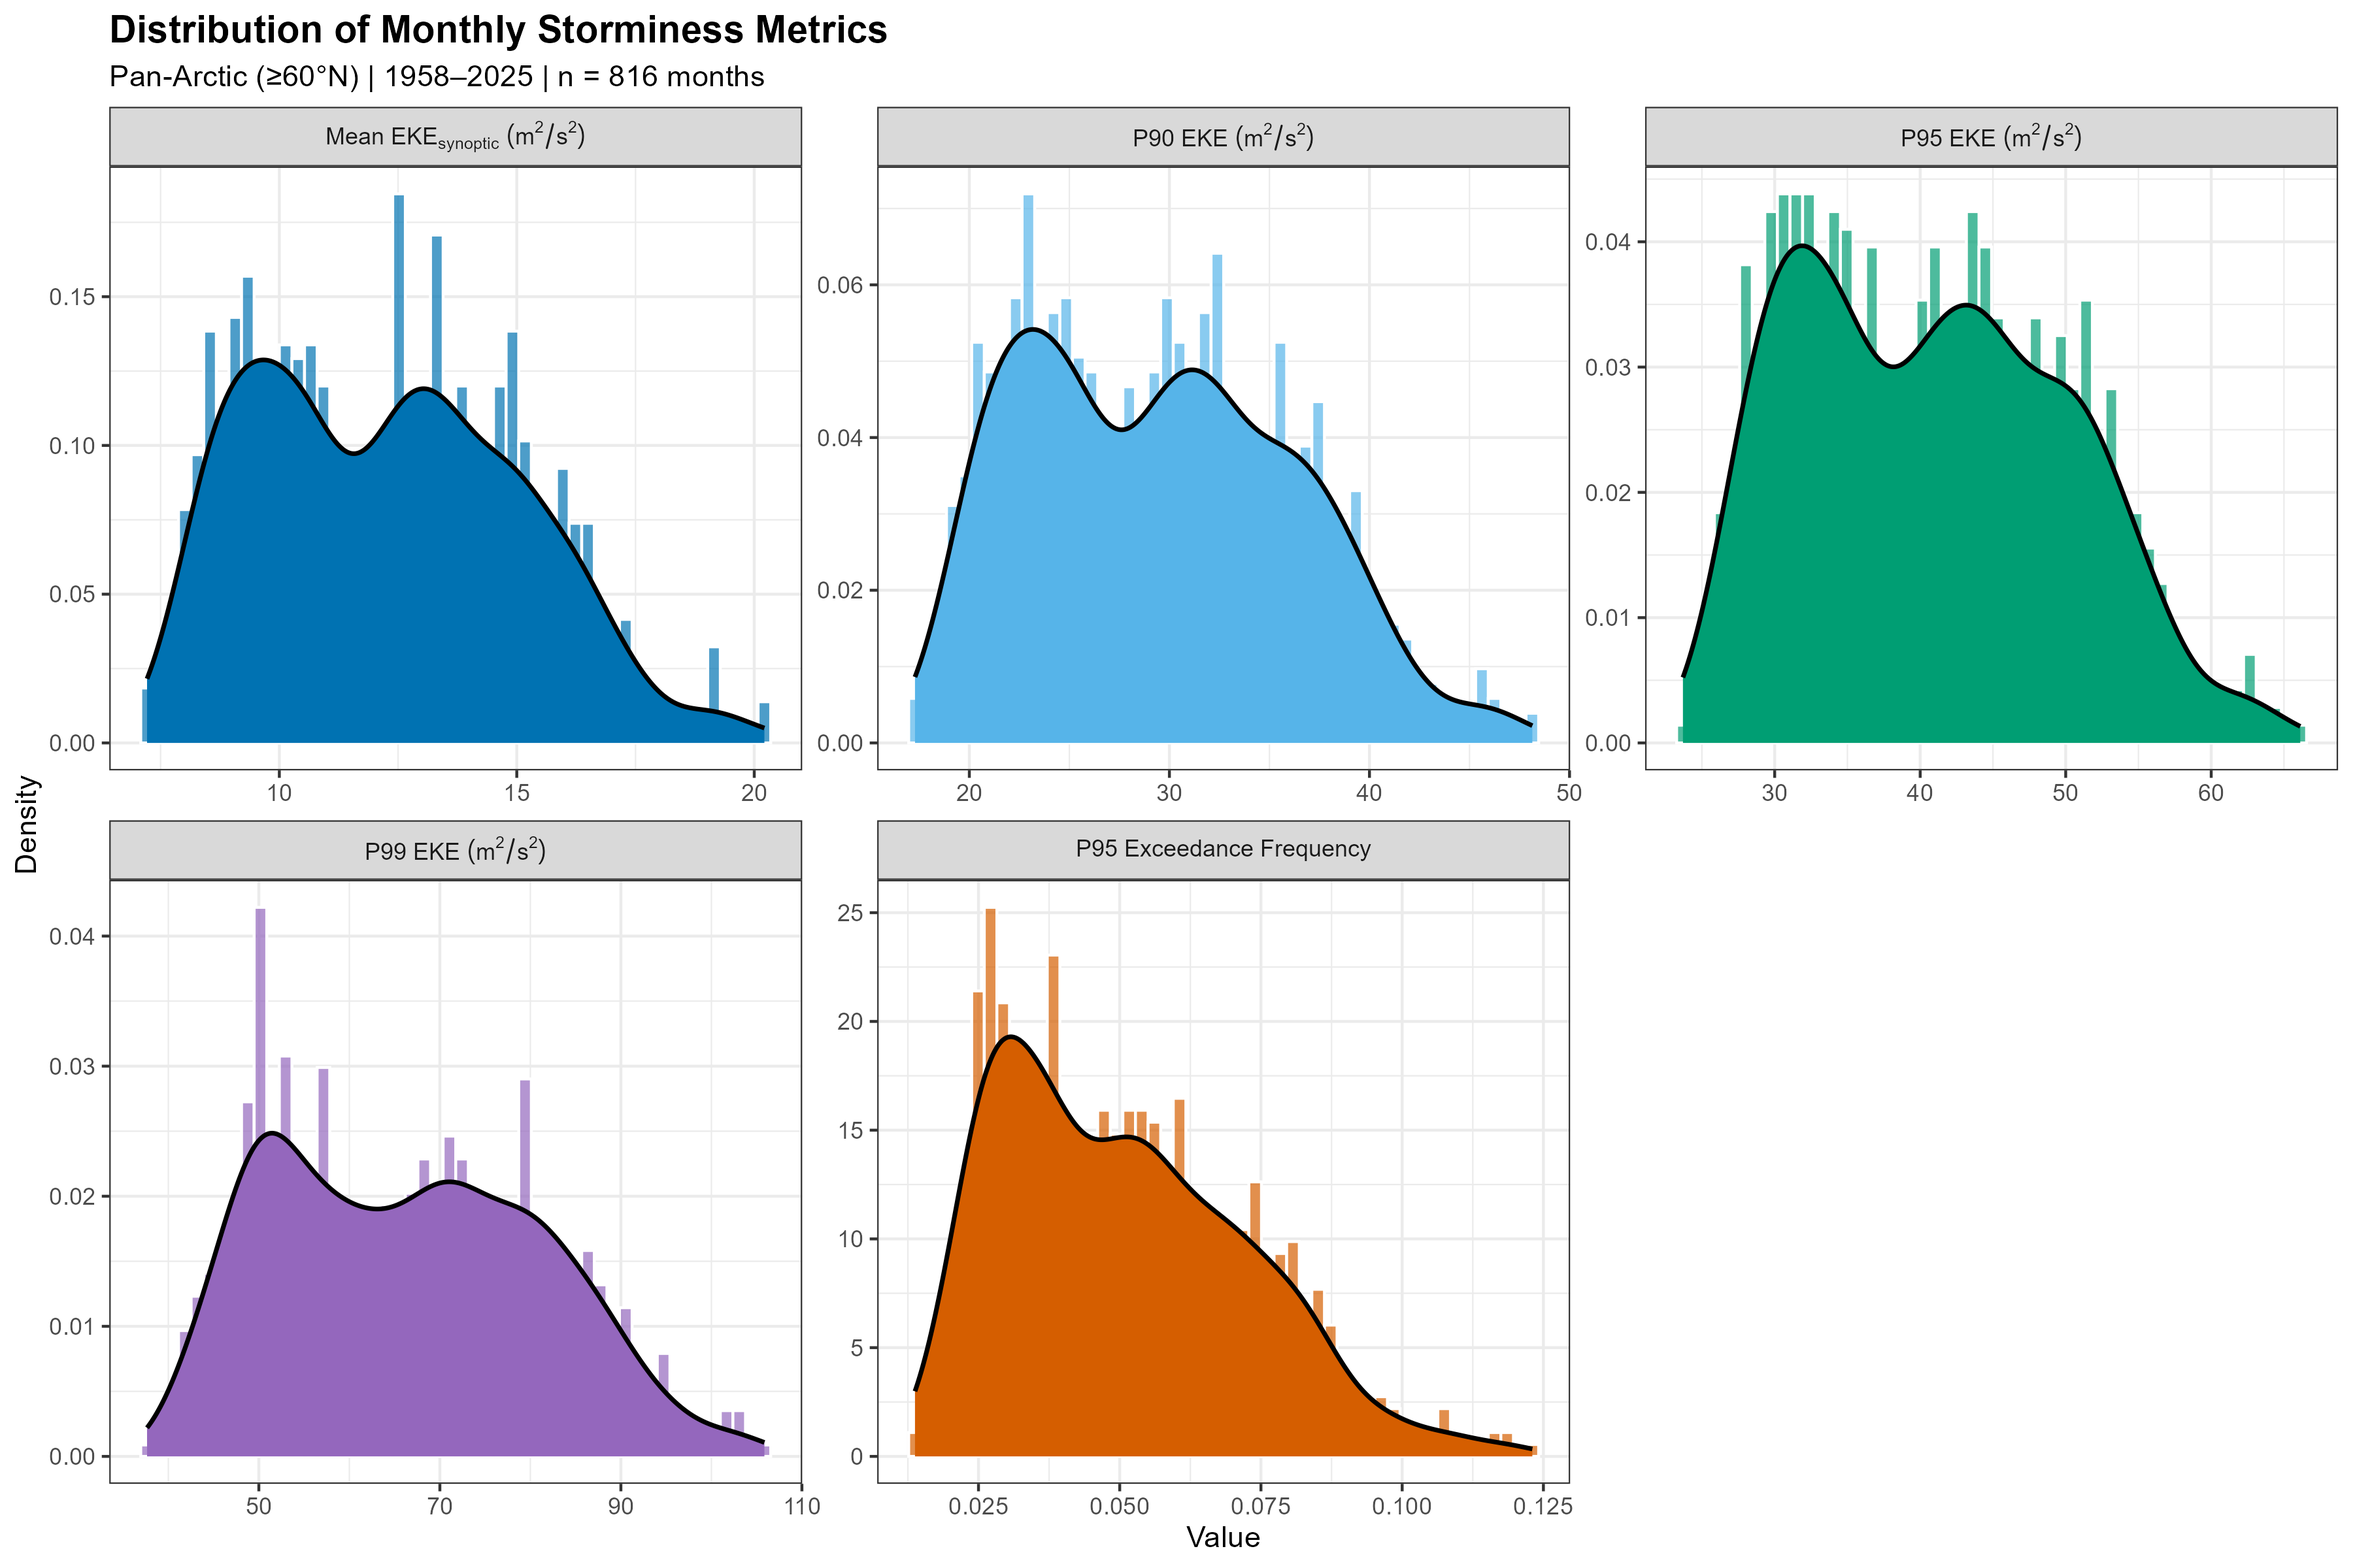
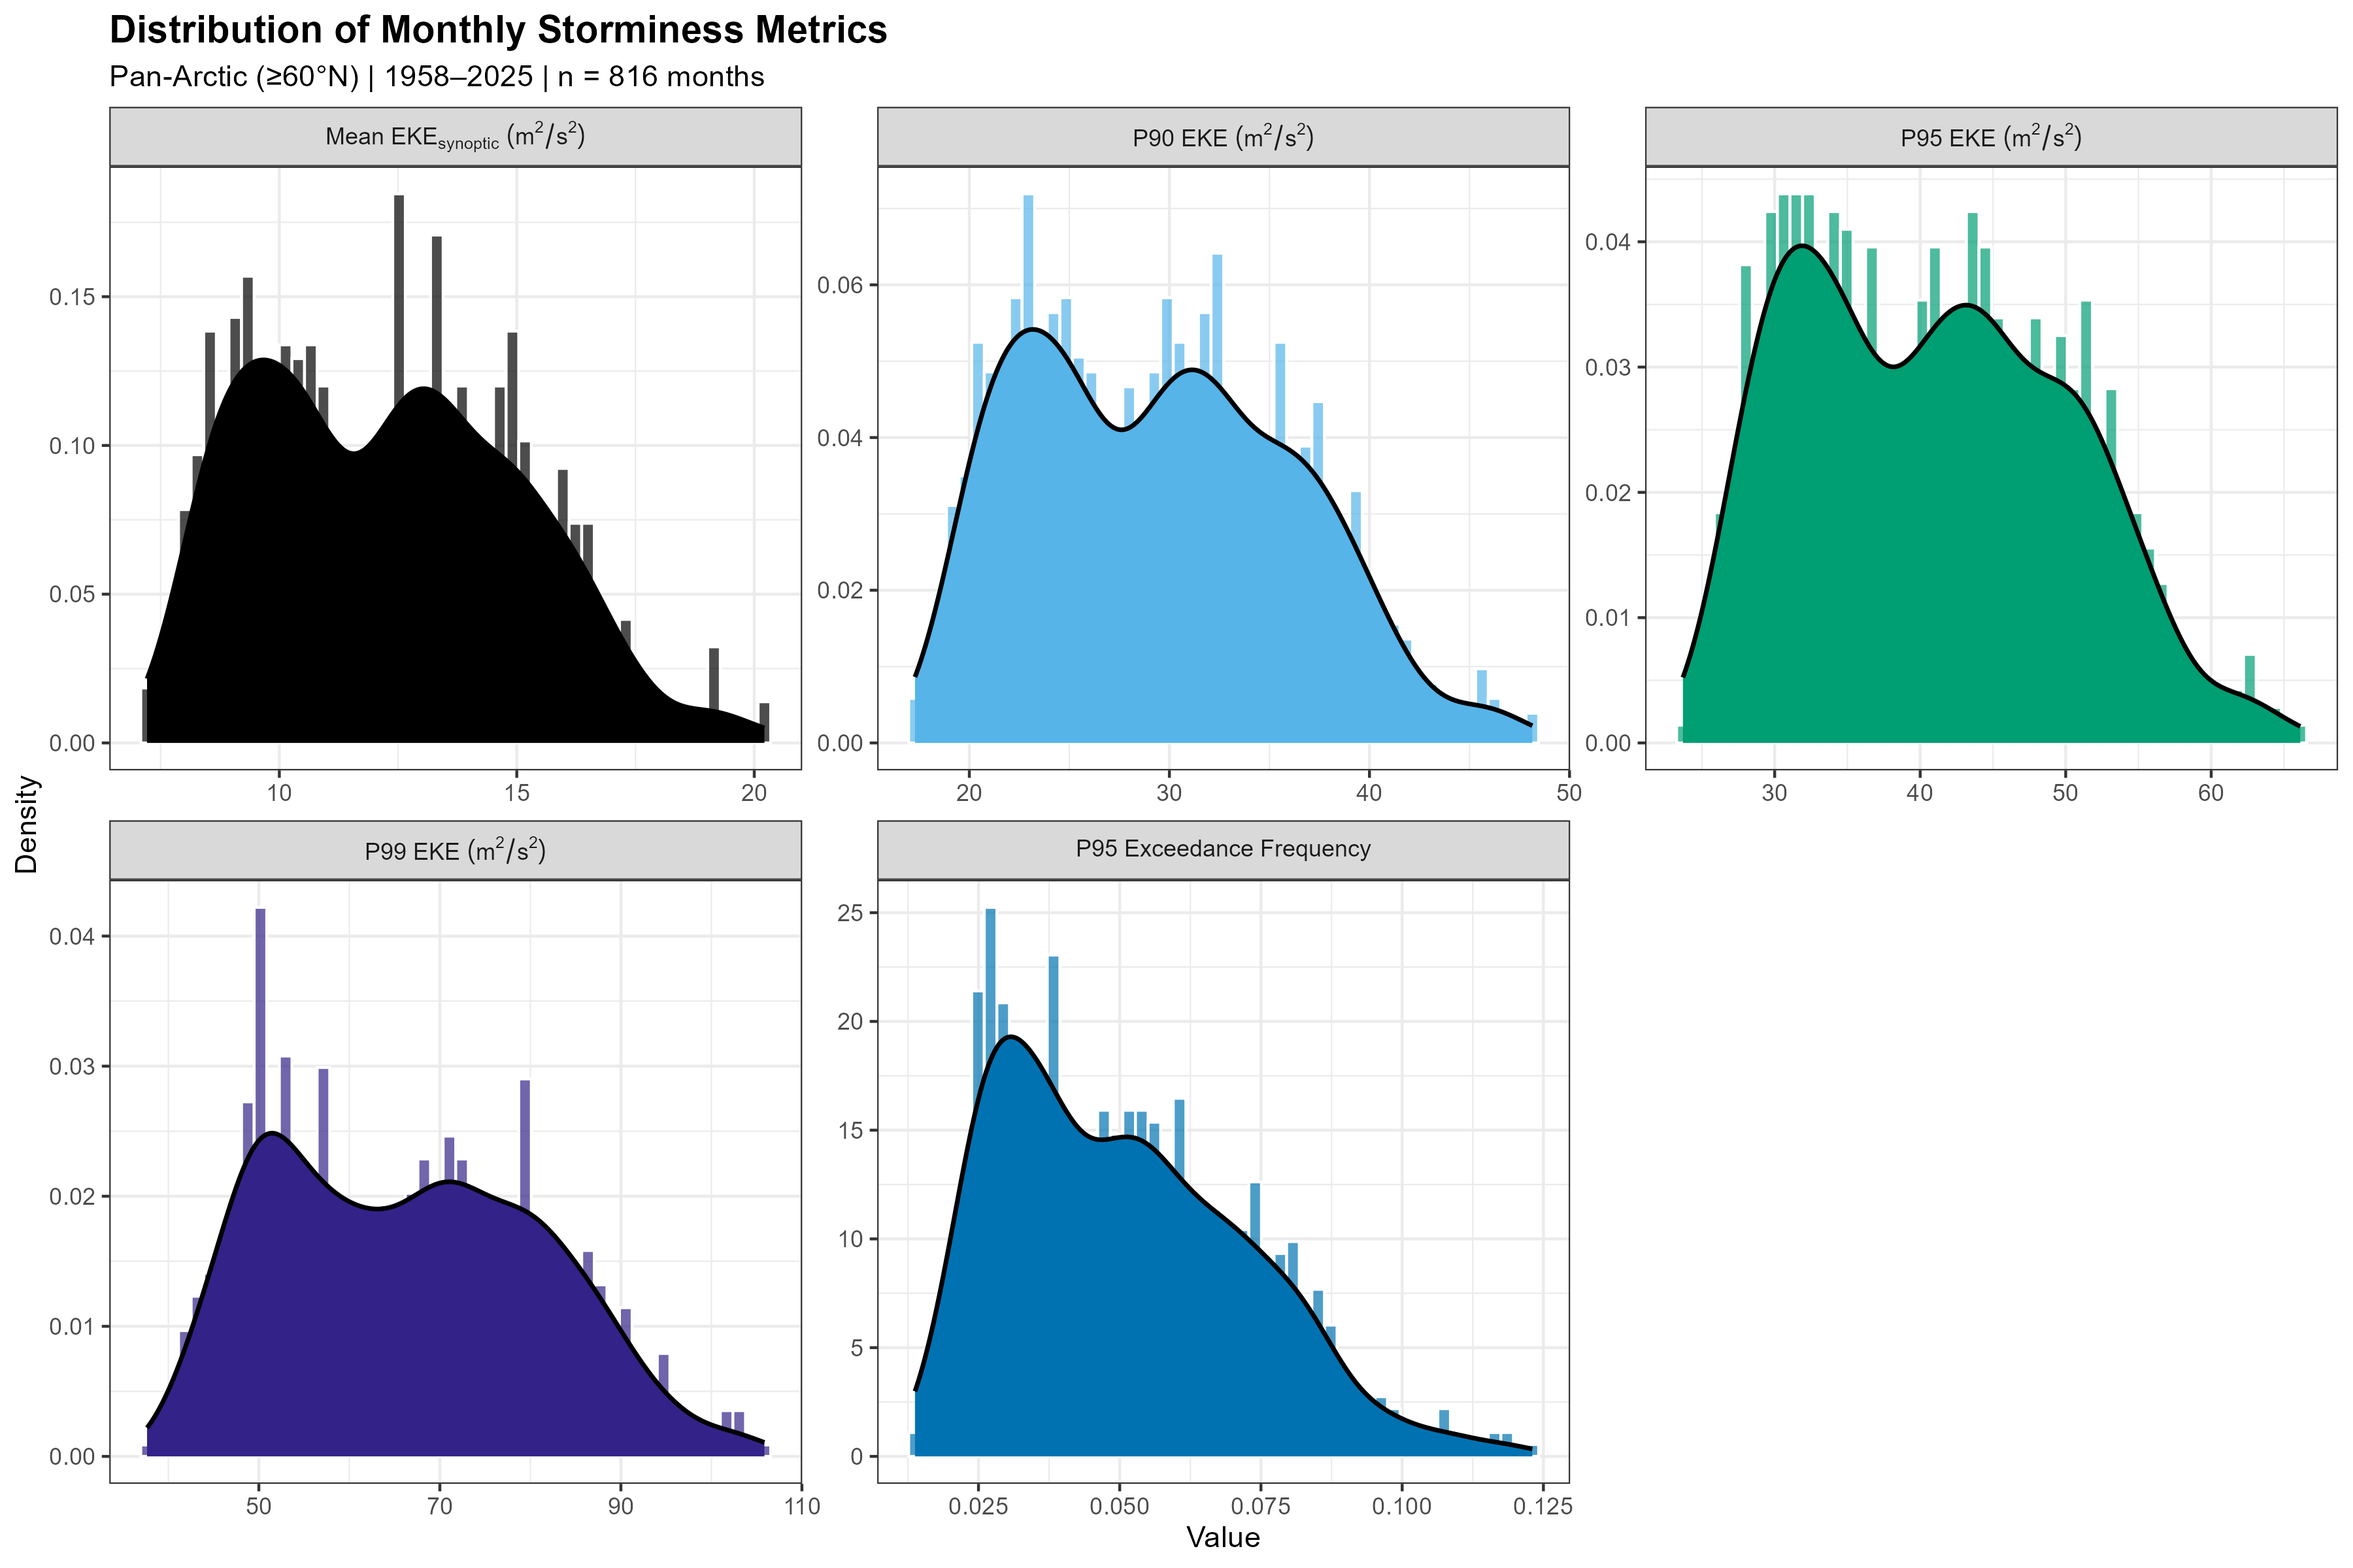
colors modification

Changed region(s): [[0.0622, 0.125, 0.3422, 0.5], [0.3733, 0.5938, 0.6533, 0.9375], [0.0622, 0.5938, 0.3422, 0.9375]]

diff --git a/Storminess_analysis_full_framework.html b/Storminess_analysis_full_framework.html
@@ -357,26 +357,26 @@ window.Quarto = {
 <span id="cb1-192"><a href="#cb1-192" aria-hidden="true" tabindex="-1"></a><span class="co"># Storminess metrics: blue family. Energy components: warm family.</span></span>
 <span id="cb1-193"><a href="#cb1-193" aria-hidden="true" tabindex="-1"></a></span>
 <span id="cb1-194"><a href="#cb1-194" aria-hidden="true" tabindex="-1"></a>METRIC_COLORS <span class="ot">&lt;-</span> <span class="fu">c</span>(</span>
-<span id="cb1-195"><a href="#cb1-195" aria-hidden="true" tabindex="-1"></a>  <span class="st">"eke_synoptic_mean"</span> <span class="ot">=</span> <span class="st">"#0072B2"</span>,  <span class="co"># Blue</span></span>
+<span id="cb1-195"><a href="#cb1-195" aria-hidden="true" tabindex="-1"></a>  <span class="st">"eke_synoptic_mean"</span> <span class="ot">=</span> <span class="st">"#000000"</span>,  <span class="co"># Black</span></span>
 <span id="cb1-196"><a href="#cb1-196" aria-hidden="true" tabindex="-1"></a>  <span class="st">"eke_p90"</span>           <span class="ot">=</span> <span class="st">"#56B4E9"</span>,  <span class="co"># Sky blue</span></span>
 <span id="cb1-197"><a href="#cb1-197" aria-hidden="true" tabindex="-1"></a>  <span class="st">"eke_p95"</span>           <span class="ot">=</span> <span class="st">"#009E73"</span>,  <span class="co"># Teal green</span></span>
-<span id="cb1-198"><a href="#cb1-198" aria-hidden="true" tabindex="-1"></a>  <span class="st">"eke_p99"</span>           <span class="ot">=</span> <span class="st">"#9467BD"</span>,  <span class="co"># Purple</span></span>
-<span id="cb1-199"><a href="#cb1-199" aria-hidden="true" tabindex="-1"></a>  <span class="st">"exceed_p95_freq"</span>   <span class="ot">=</span> <span class="st">"#D55E00"</span>   <span class="co"># Vermillion</span></span>
+<span id="cb1-198"><a href="#cb1-198" aria-hidden="true" tabindex="-1"></a>  <span class="st">"eke_p99"</span>           <span class="ot">=</span> <span class="st">"#332288"</span>,  <span class="co"># Deep Indigo</span></span>
+<span id="cb1-199"><a href="#cb1-199" aria-hidden="true" tabindex="-1"></a>  <span class="st">"exceed_p95_freq"</span>   <span class="ot">=</span> <span class="st">"#0072B2"</span>   <span class="co"># Blue</span></span>
 <span id="cb1-200"><a href="#cb1-200" aria-hidden="true" tabindex="-1"></a>)</span>
 <span id="cb1-201"><a href="#cb1-201" aria-hidden="true" tabindex="-1"></a></span>
 <span id="cb1-202"><a href="#cb1-202" aria-hidden="true" tabindex="-1"></a>ENERGY_COLORS <span class="ot">&lt;-</span> <span class="fu">c</span>(</span>
-<span id="cb1-203"><a href="#cb1-203" aria-hidden="true" tabindex="-1"></a>  <span class="st">"tke"</span>        <span class="ot">=</span> <span class="st">"#1B9E77"</span>,   <span class="co"># Green</span></span>
-<span id="cb1-204"><a href="#cb1-204" aria-hidden="true" tabindex="-1"></a>  <span class="st">"mke"</span>        <span class="ot">=</span> <span class="st">"#D95F02"</span>,   <span class="co"># Orange</span></span>
-<span id="cb1-205"><a href="#cb1-205" aria-hidden="true" tabindex="-1"></a>  <span class="st">"eke_budget"</span> <span class="ot">=</span> <span class="st">"#7570B3"</span>    <span class="co"># Periwinkle</span></span>
+<span id="cb1-203"><a href="#cb1-203" aria-hidden="true" tabindex="-1"></a>  <span class="st">"tke"</span>        <span class="ot">=</span> <span class="st">"#E69F00"</span>,   <span class="co"># Golden Orange </span></span>
+<span id="cb1-204"><a href="#cb1-204" aria-hidden="true" tabindex="-1"></a>  <span class="st">"mke"</span>        <span class="ot">=</span> <span class="st">"#D55E00"</span>,   <span class="co"># Vermillion </span></span>
+<span id="cb1-205"><a href="#cb1-205" aria-hidden="true" tabindex="-1"></a>  <span class="st">"eke_budget"</span> <span class="ot">=</span> <span class="st">"#CC79A7"</span>    <span class="co"># Reddish Purple/Pink </span></span>
 <span id="cb1-206"><a href="#cb1-206" aria-hidden="true" tabindex="-1"></a>)</span>
 <span id="cb1-207"><a href="#cb1-207" aria-hidden="true" tabindex="-1"></a></span>
 <span id="cb1-208"><a href="#cb1-208" aria-hidden="true" tabindex="-1"></a>ALL_COLORS <span class="ot">&lt;-</span> <span class="fu">c</span>(METRIC_COLORS, ENERGY_COLORS)</span>
 <span id="cb1-209"><a href="#cb1-209" aria-hidden="true" tabindex="-1"></a></span>
 <span id="cb1-210"><a href="#cb1-210" aria-hidden="true" tabindex="-1"></a>SEASON_COLORS <span class="ot">&lt;-</span> <span class="fu">c</span>(</span>
-<span id="cb1-211"><a href="#cb1-211" aria-hidden="true" tabindex="-1"></a>  <span class="st">"DJF"</span> <span class="ot">=</span> <span class="st">"#4575B4"</span>,  <span class="co"># Blue   — winter</span></span>
-<span id="cb1-212"><a href="#cb1-212" aria-hidden="true" tabindex="-1"></a>  <span class="st">"MAM"</span> <span class="ot">=</span> <span class="st">"#91CF60"</span>,  <span class="co"># Green  — spring</span></span>
-<span id="cb1-213"><a href="#cb1-213" aria-hidden="true" tabindex="-1"></a>  <span class="st">"JJA"</span> <span class="ot">=</span> <span class="st">"#FC8D59"</span>,  <span class="co"># Orange — summer</span></span>
-<span id="cb1-214"><a href="#cb1-214" aria-hidden="true" tabindex="-1"></a>  <span class="st">"SON"</span> <span class="ot">=</span> <span class="st">"#D73027"</span>   <span class="co"># Red    — autumn (hypothesis season)</span></span>
+<span id="cb1-211"><a href="#cb1-211" aria-hidden="true" tabindex="-1"></a>  <span class="st">"DJF"</span> <span class="ot">=</span> <span class="st">"#4575B4"</span>,  <span class="co"># Blue   </span></span>
+<span id="cb1-212"><a href="#cb1-212" aria-hidden="true" tabindex="-1"></a>  <span class="st">"MAM"</span> <span class="ot">=</span> <span class="st">"#91CF60"</span>,  <span class="co"># Green  </span></span>
+<span id="cb1-213"><a href="#cb1-213" aria-hidden="true" tabindex="-1"></a>  <span class="st">"JJA"</span> <span class="ot">=</span> <span class="st">"#D73027"</span>,  <span class="co"># Red </span></span>
+<span id="cb1-214"><a href="#cb1-214" aria-hidden="true" tabindex="-1"></a>  <span class="st">"SON"</span> <span class="ot">=</span> <span class="st">"#A6611A"</span>   <span class="co"># Warm rust </span></span>
 <span id="cb1-215"><a href="#cb1-215" aria-hidden="true" tabindex="-1"></a>)</span>
 <span id="cb1-216"><a href="#cb1-216" aria-hidden="true" tabindex="-1"></a></span>
 <span id="cb1-217"><a href="#cb1-217" aria-hidden="true" tabindex="-1"></a></span>
